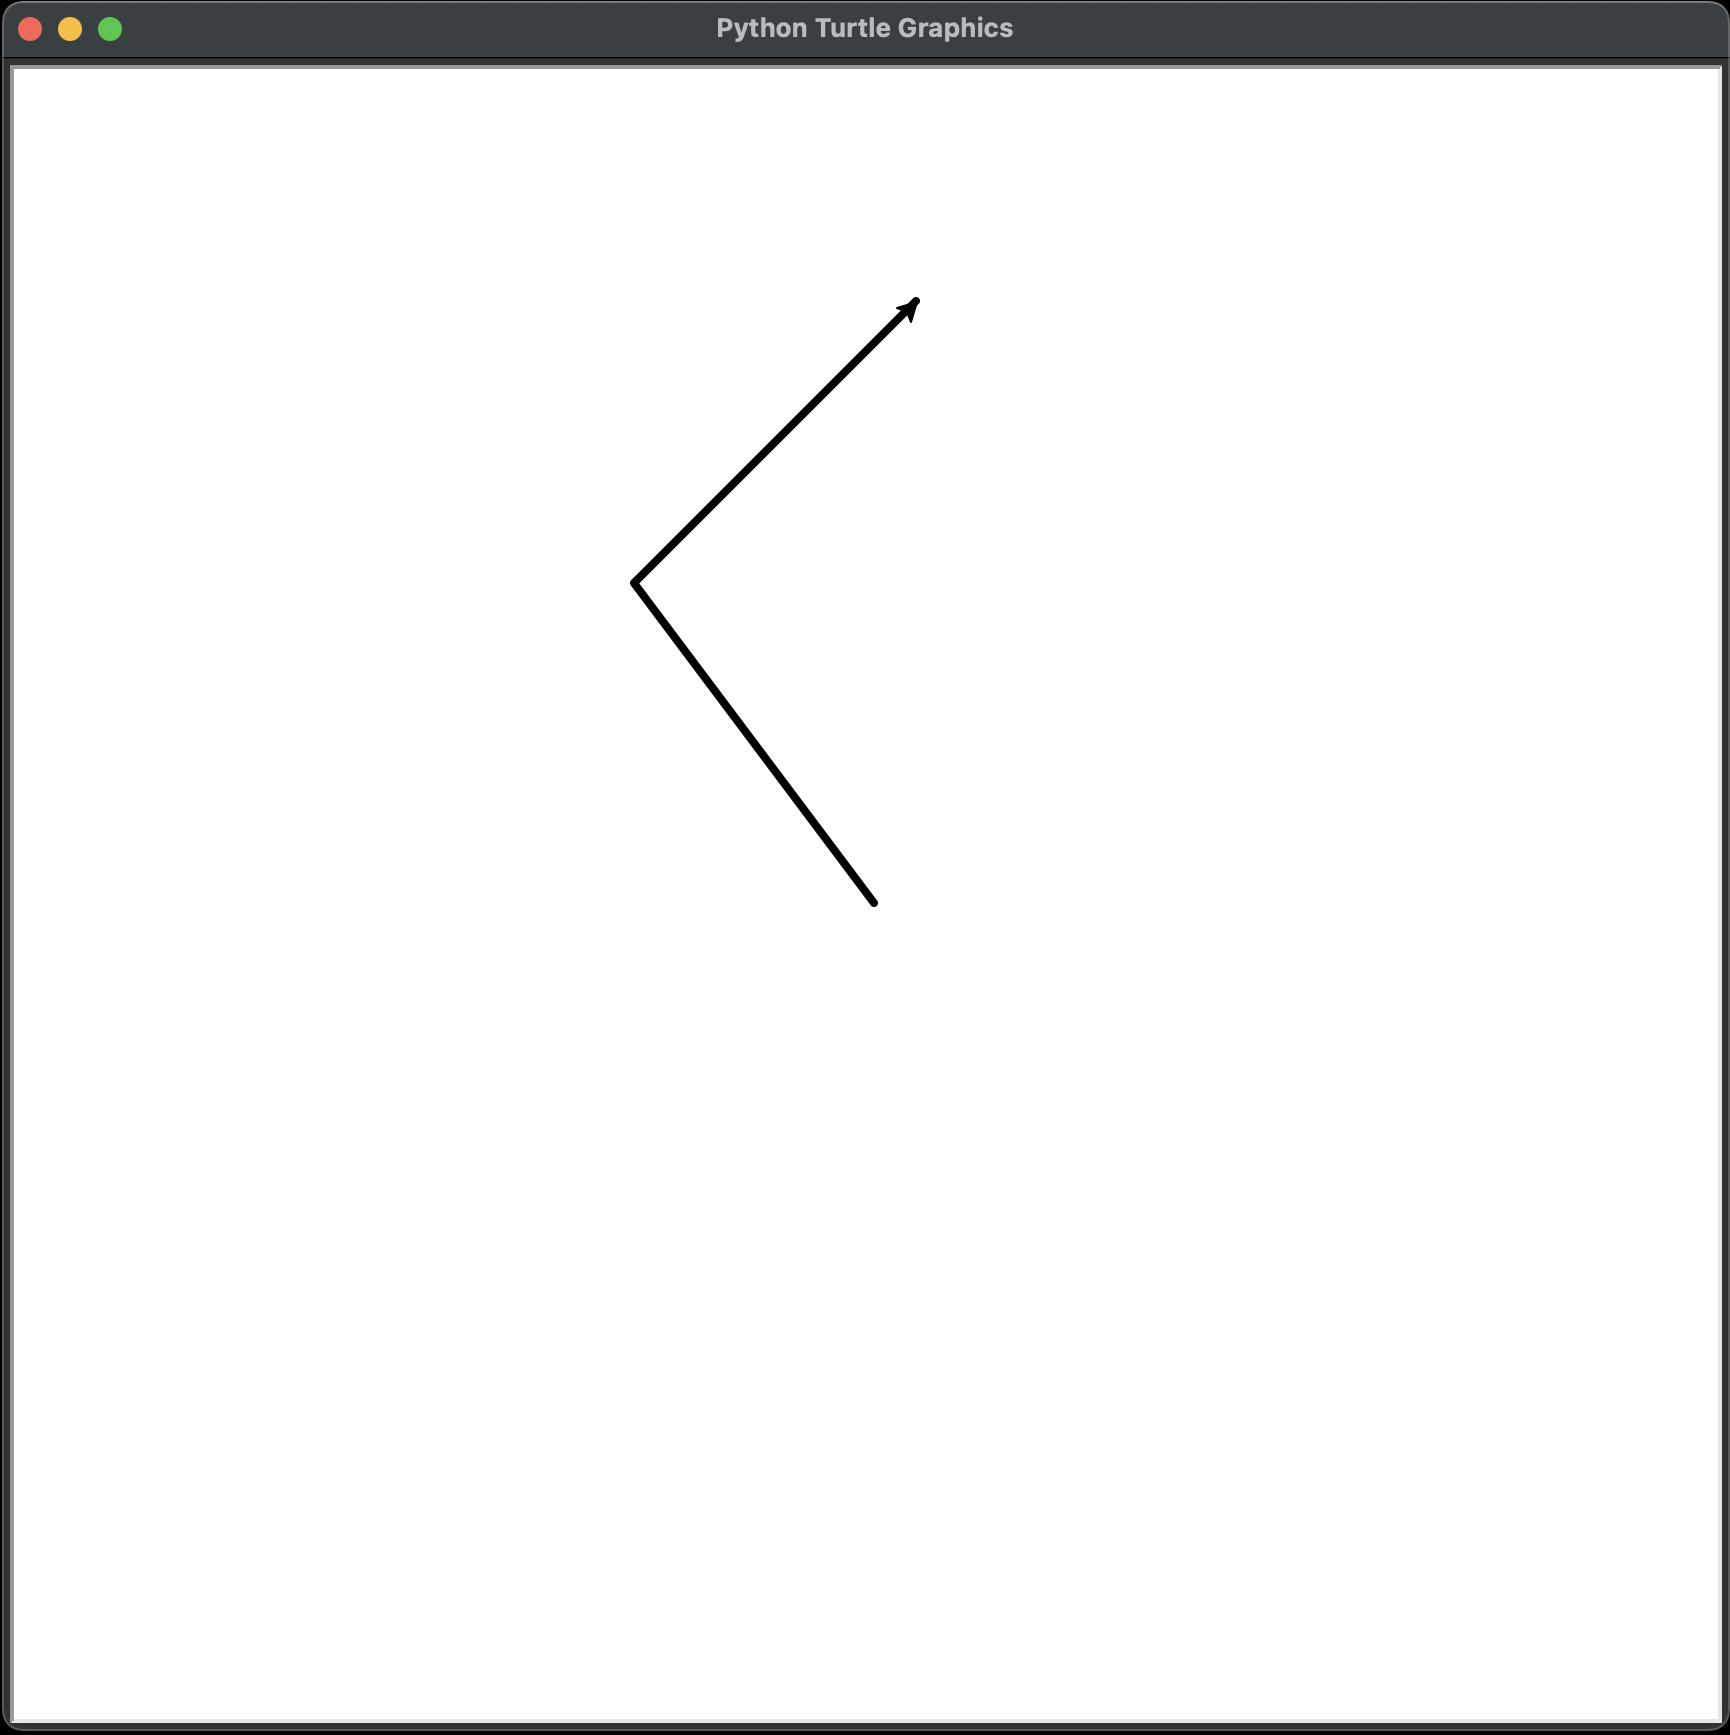
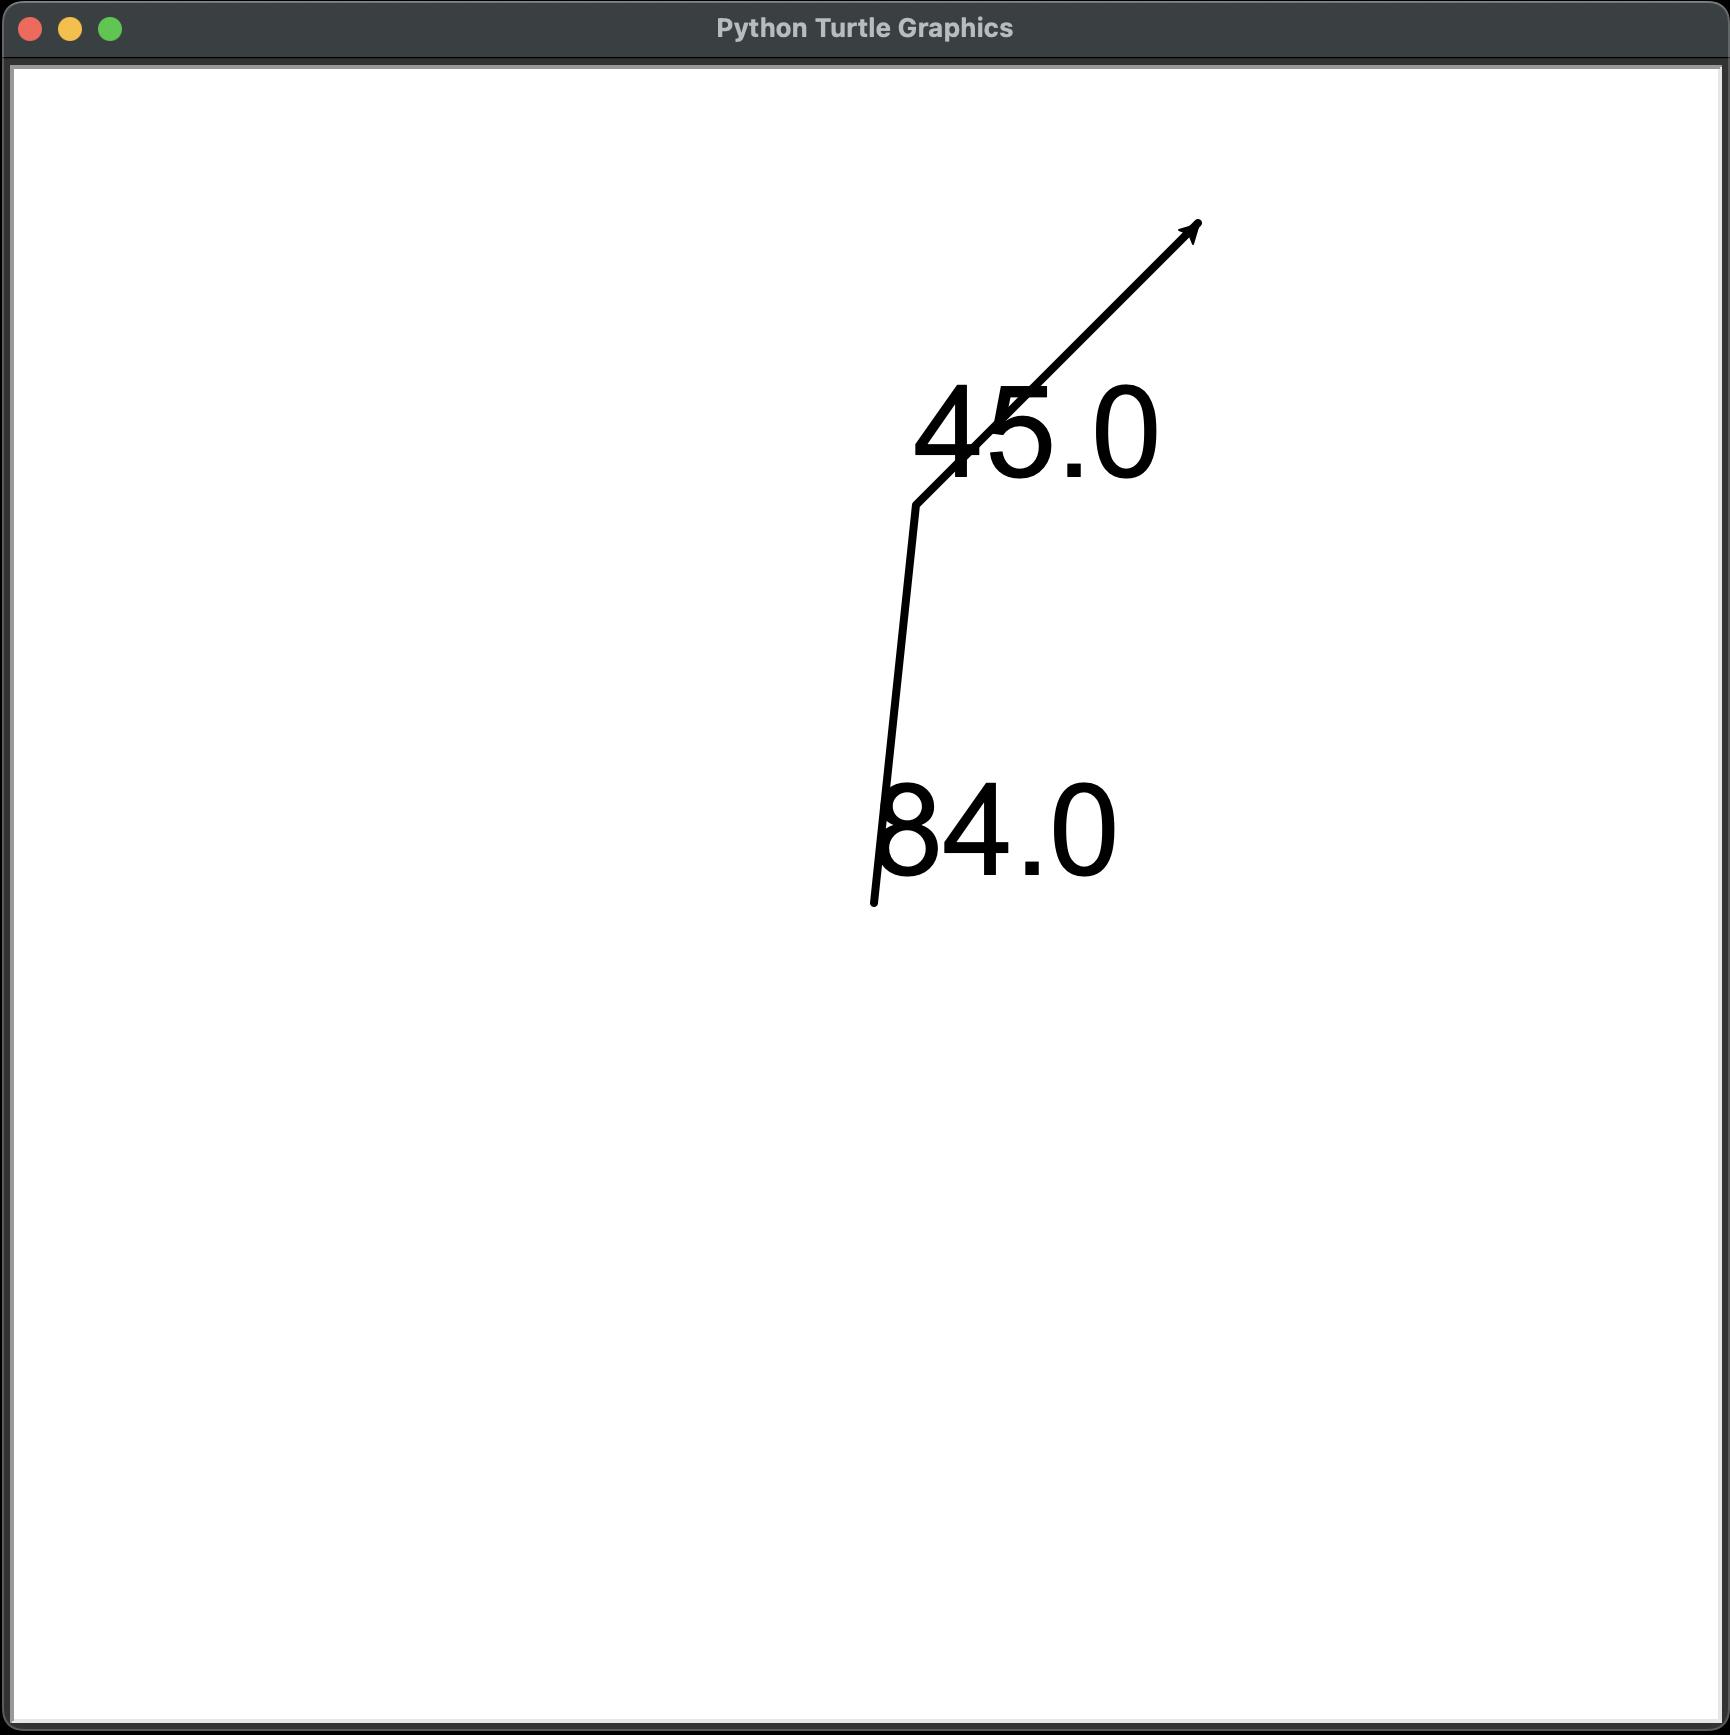
Position and angle sections

diff --git a/setheading_turtle.py b/setheading_turtle.py
@@ -5,9 +5,11 @@ import random
 
 pensize(4)
 left(random.randint(0, 360))
+write(str(heading()), font=('Arial', 48, 'normal'))
 forward(200)
 
 setheading(45)
+write(str(heading()), font=('Arial', 48, 'normal'))
 forward(200)
 
 done()

diff --git a/random_position.py b/random_position.py
@@ -1,0 +1,10 @@
+# random_position.py
+from turtle import *
+from random import *
+
+for i in range(8):
+    write(str(position()))
+    left(randint(0, 90))
+    forward(100)
+
+done()

diff --git a/simple_turtle_tutorial.md b/simple_turtle_tutorial.md
@@ -525,7 +525,7 @@ There are three parts to the `font=` parameter's argument: the name of the font,
 
 
 
-## Angles and Position
+## Angles
 
 In Turtle programs, we can measure distance in steps. For example, `forward(100)` moves the turtle a distance of 100 steps. There are also ways that we can measure turns and position using numbers as well.
 
@@ -557,18 +557,78 @@ When you run this program, the Turtle window looks like this:
 
 The `left()` and `right()` functions make the turtle turn based on its current direction. If the turtle is facing 45 degrees and your program calls `left(90)`, then the turtle's new direction will be 135 because 45 + 90 = 135. However, the `setheading()` function can make the turtle face a new direction no matter what it's current direction is.
 
+The `heading()` function returns a number value of the turtle's current heading.
+
+For example, create a new program named `setheading_turtle.py` with the following code:
+
+```python
+# setheading_turtle.py
+
+from turtle import *
+import random
+
+pensize(4)
+left(random.randint(0, 360))
+write(str(heading()))
+forward(200)
+
+setheading(45)
+write(str(heading()))
+forward(200)
+
+done()
+```
+
+When you run this program, it turns the turtle to face a random direction, writes the heading (as returned by `heading()`) to the window, and then moves forward in that direction by 200 steps. Then, the `setheading(45)` function call sets the direction of the turtle to 45 degrees. Because of this, the second `write(str(heading()))` line always writes "45.0" to the window. The turtle now points to the top right of the window. Then the turtle moves 200 steps in this new direction.
+
+This means that no matter what heading the turtle had before, `setheading(45)` makes the turtle always face to the top-right. If you run this program several times, it would look something like this:
+
 [<img src="screenshot_setheading_turtle1.jpg" style="width: 400px"/>](screenshot_setheading_turtle1.jpg)
 [<img src="screenshot_setheading_turtle2.jpg" style="width: 400px"/>](screenshot_setheading_turtle2.jpg)
 [<img src="screenshot_setheading_turtle3.jpg" style="width: 400px"/>](screenshot_setheading_turtle3.jpg)
 [<img src="screenshot_setheading_turtle4.jpg" style="width: 400px"/>](screenshot_setheading_turtle4.jpg)
 
-TODO explain 45, 90, 180 degrees with examples. Two 45 degree turns is one 90 degree turn.
-TODO explain x and y coordinates
 
-TODO - random walk algorithm 90 degrees
+## Position, and Moving the Pen Up and Down
 
-## Moving the Pen Up and Down to Draw Dashes
+Just as degrees are numbers that can describe where the turtle is facing and how much of a turn it should make, the *position* of the turtle can be represented by two numbers. In the *Cartesian coordinate system*, the *X coordinate* represents how far left or right the turtle is. The *Y coordinate* represents how far up or down the turtle is. Together, the XY coordinates tell you exactly where the turtle is.
 
+* The center of the window is called the *origin* and has XY coordinates of `0` and `0`.
+* When written together, the X coordinate is always written first and the Y coordinate second. The coordinates (4, -7) mean the X coordinate is 4 and the Y coordinate is -7.
+* The X coordinates increase going right and decrease going left.
+* The Y coordinates increase going up and decrease going down.
+* A turtle in the left half of the window always has a negative X coordinate.
+* A turtle in the right half always has a positive X coordinate.
+* A turtle in the bottom half of the window always has a negative Y coordinate.
+* A turtle in the top half of the window always has a positive Y coordinate.
+
+This image from Wikipedia shows a Cartesian coordiante system with some example points:
+
+[<img src="cartesian.png" style="width: 400px"/>](cartesian.png)
+
+Let's write a program called *random_position.py* that writes the XY coordinates in the window as the turtle moves around:
+
+```python
+# random_position.py
+from turtle import *
+from random import *
+
+for i in range(8):
+    write(str(position()))
+    left(randint(0, 90))
+    forward(100)
+
+done()
+```
+
+When you run this program, the output will look something like this:
+
+[<img src="screenshot_random_position.jpg" style="width: 400px"/>](screenshot_random_position.jpg)
+
+TODO
+
+
+The `forward()` and `backward()` functions always move from the turtle's current position. However, you can 
 
 TODO 
 
